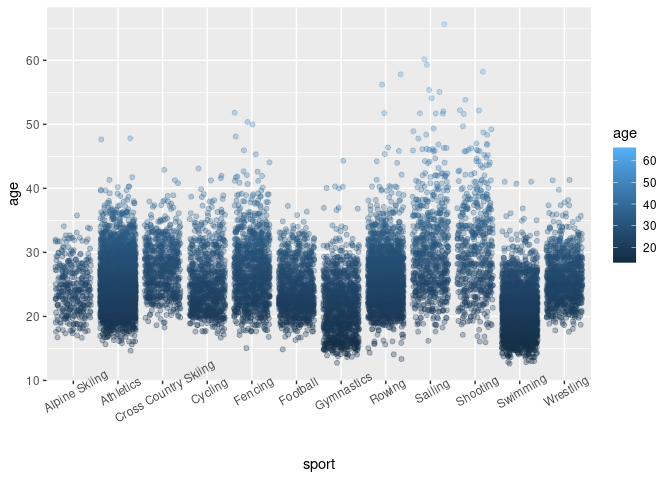
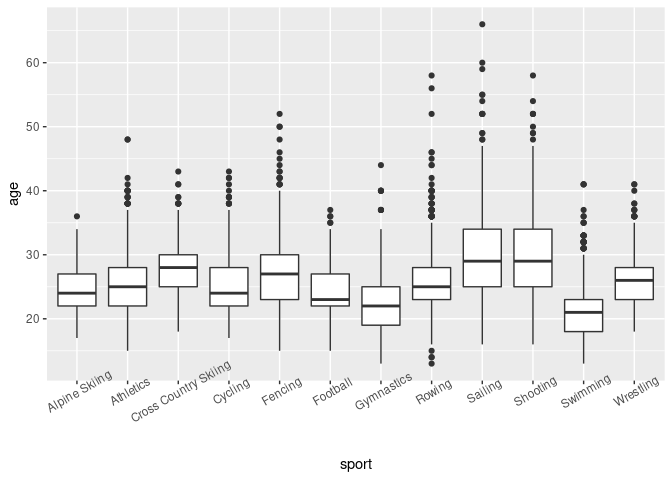
partially completed exercise two and the boxplot for question 1

diff --git a/proposal/proposal.md b/proposal/proposal.md
@@ -185,7 +185,7 @@ olympics %>%
   mutate(n_medal = medal %in% c("Bronze", "Silver", "Gold")) %>%
   filter(sport %in% c("Athletics","Gymnastics","Swimming","Shooting",       "Cycling", "Fencing", "Rowing", "Cross Country Skiing", "Alpine Skiing", "Wrestling", "Football", "Sailing")) %>%
   ggplot(aes(x = sport, y = age, colour = age)) +
-  geom_jitter(alpha = 0.3) +
+  geom_boxplot() +
   theme(axis.text.x = element_text(angle = 30))
 ```
 
@@ -211,7 +211,93 @@ olympics %>%
     ## 10 Wrestling             7154
     ## # … with 56 more rows
 
-2.  Which sports cause the two spikes around the age 46 and 52.
+2.  Which sports cause the two spikes around the age 46 and 52?
 
-3.  Make a model related to the age and the probability of wining
-    medals.
+``` r
+population <- olympics %>%
+  count(age)
+
+medal_by_age <- olympics %>%
+  na.omit(medal) %>%
+  group_by(age) %>%
+  mutate(n_medal = medal %in% c("Bronze", "Silver", "Gold")) %>%
+  count(n_medal) %>%
+  select(age, n) 
+
+medal_by_age_2 <- medal_by_age %>%
+  left_join(population, by = "age")
+
+medal_by_age_2 %>%
+  mutate(proportion = n.x/n.y) %>%
+  ggplot(aes(x = age, y = proportion)) +
+  geom_line() +
+  xlim(44,55)
+```
+
+    ## Warning: Removed 38 row(s) containing missing values (geom_path).
+
+![](proposal_files/figure-gfm/unnamed-chunk-6-1.png)<!-- -->
+
+``` r
+olympics %>%
+  group_by(age) %>%
+  mutate(n_medal = medal %in% c("Bronze", "Silver", "Gold")) %>%
+  count(age) %>%
+  select(age, n) %>%
+  ggplot(aes(x = age, y = n)) +
+  geom_line() +
+  xlim(44,55) +
+  ylim(0,1000)
+```
+
+    ## Warning: Removed 63 row(s) containing missing values (geom_path).
+
+![](proposal_files/figure-gfm/unnamed-chunk-7-1.png)<!-- -->
+
+``` r
+olympics %>%
+  filter(age > 44, age < 48 ) %>%
+  na.omit(medal) %>%
+  count(sport, sort = TRUE)
+```
+
+    ## # A tibble: 8 × 2
+    ##   sport             n
+    ##   <chr>         <int>
+    ## 1 Equestrianism    47
+    ## 2 Shooting         14
+    ## 3 Sailing          11
+    ## 4 Curling           3
+    ## 5 Rowing            3
+    ## 6 Fencing           2
+    ## 7 Archery           1
+    ## 8 Bobsleigh         1
+
+``` r
+olympics %>%
+  filter(age > 50, age < 54 ) %>%
+  na.omit(medal) %>%
+  count(sport, sort = TRUE)
+```
+
+    ## # A tibble: 5 × 2
+    ##   sport             n
+    ##   <chr>         <int>
+    ## 1 Equestrianism    16
+    ## 2 Sailing           4
+    ## 3 Shooting          3
+    ## 4 Fencing           1
+    ## 5 Rowing            1
+
+``` r
+olympics %>%
+  filter(sport %in% c("Equestrianism", "Sailing", "Shooting")) %>%
+  na.omit(medal) %>%
+  group_by(age) %>%
+  mutate(n_medal = medal %in% c("Bronze", "Silver", "Gold")) %>%
+  ggplot(aes(x = age, y = sport, colour = age)) +
+  geom_boxplot()
+```
+
+![](proposal_files/figure-gfm/unnamed-chunk-10-1.png)<!-- --> 3. Make a
+model related to the age and the probability of wining medals.
